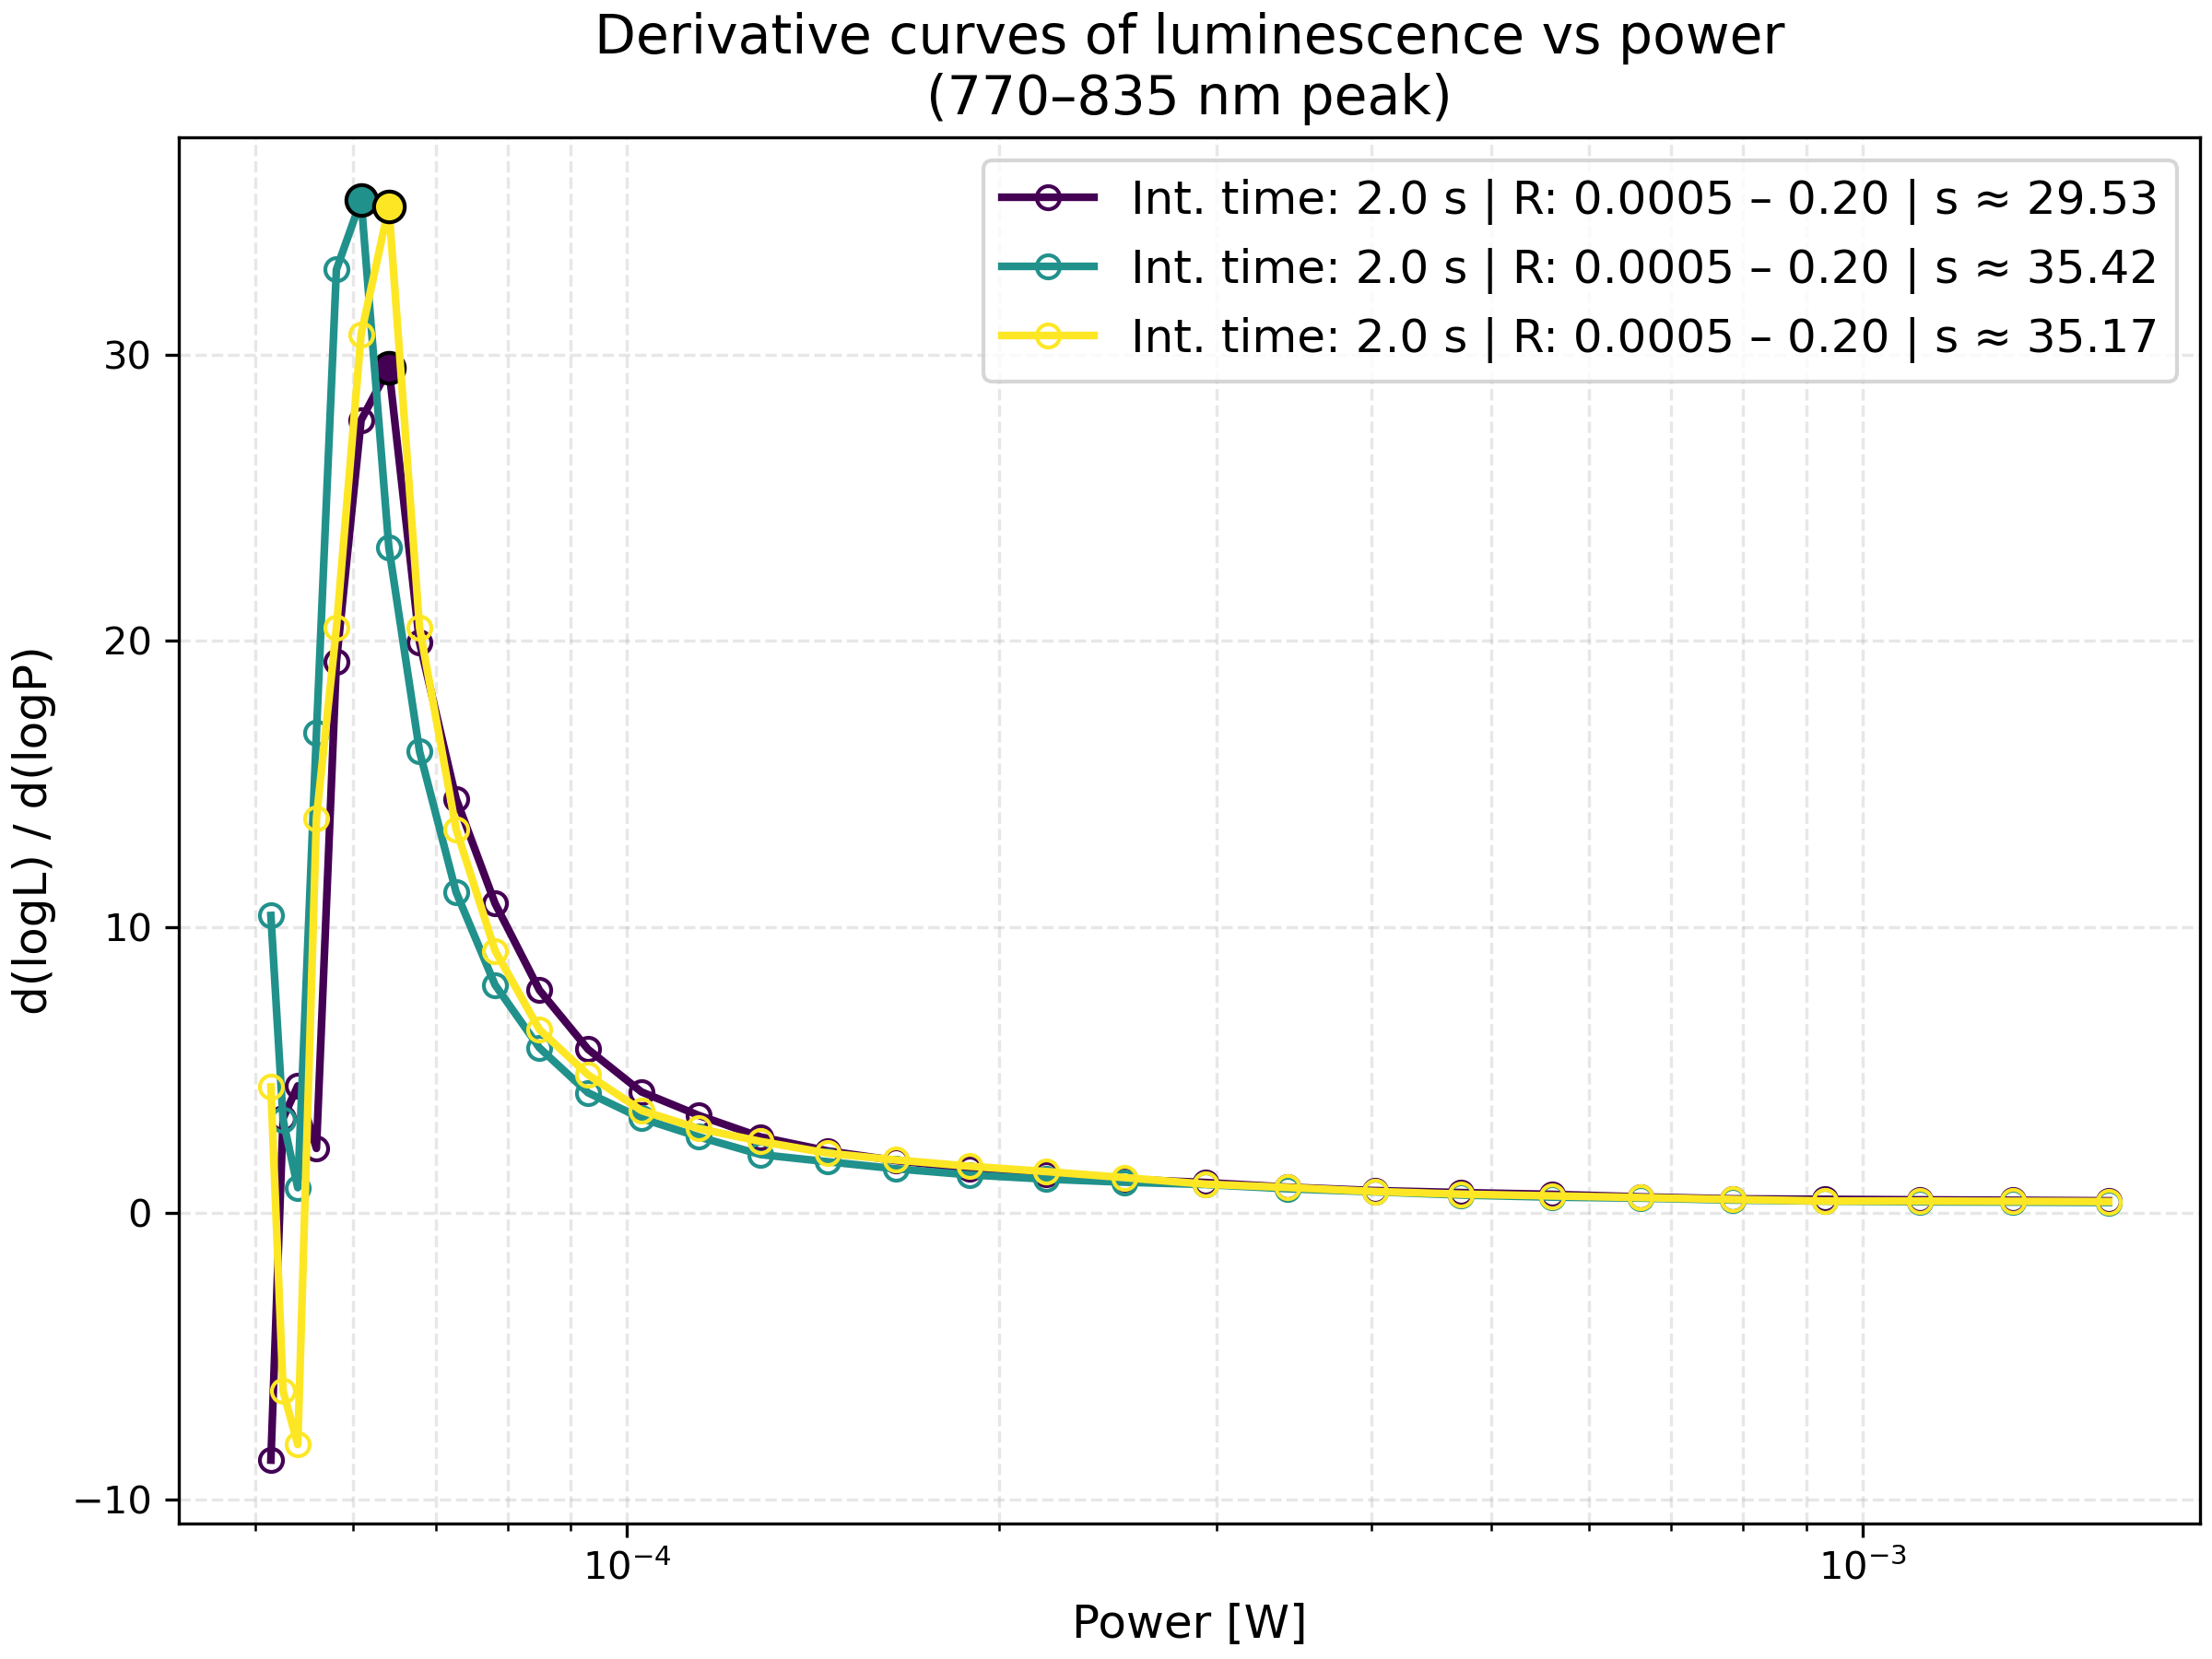
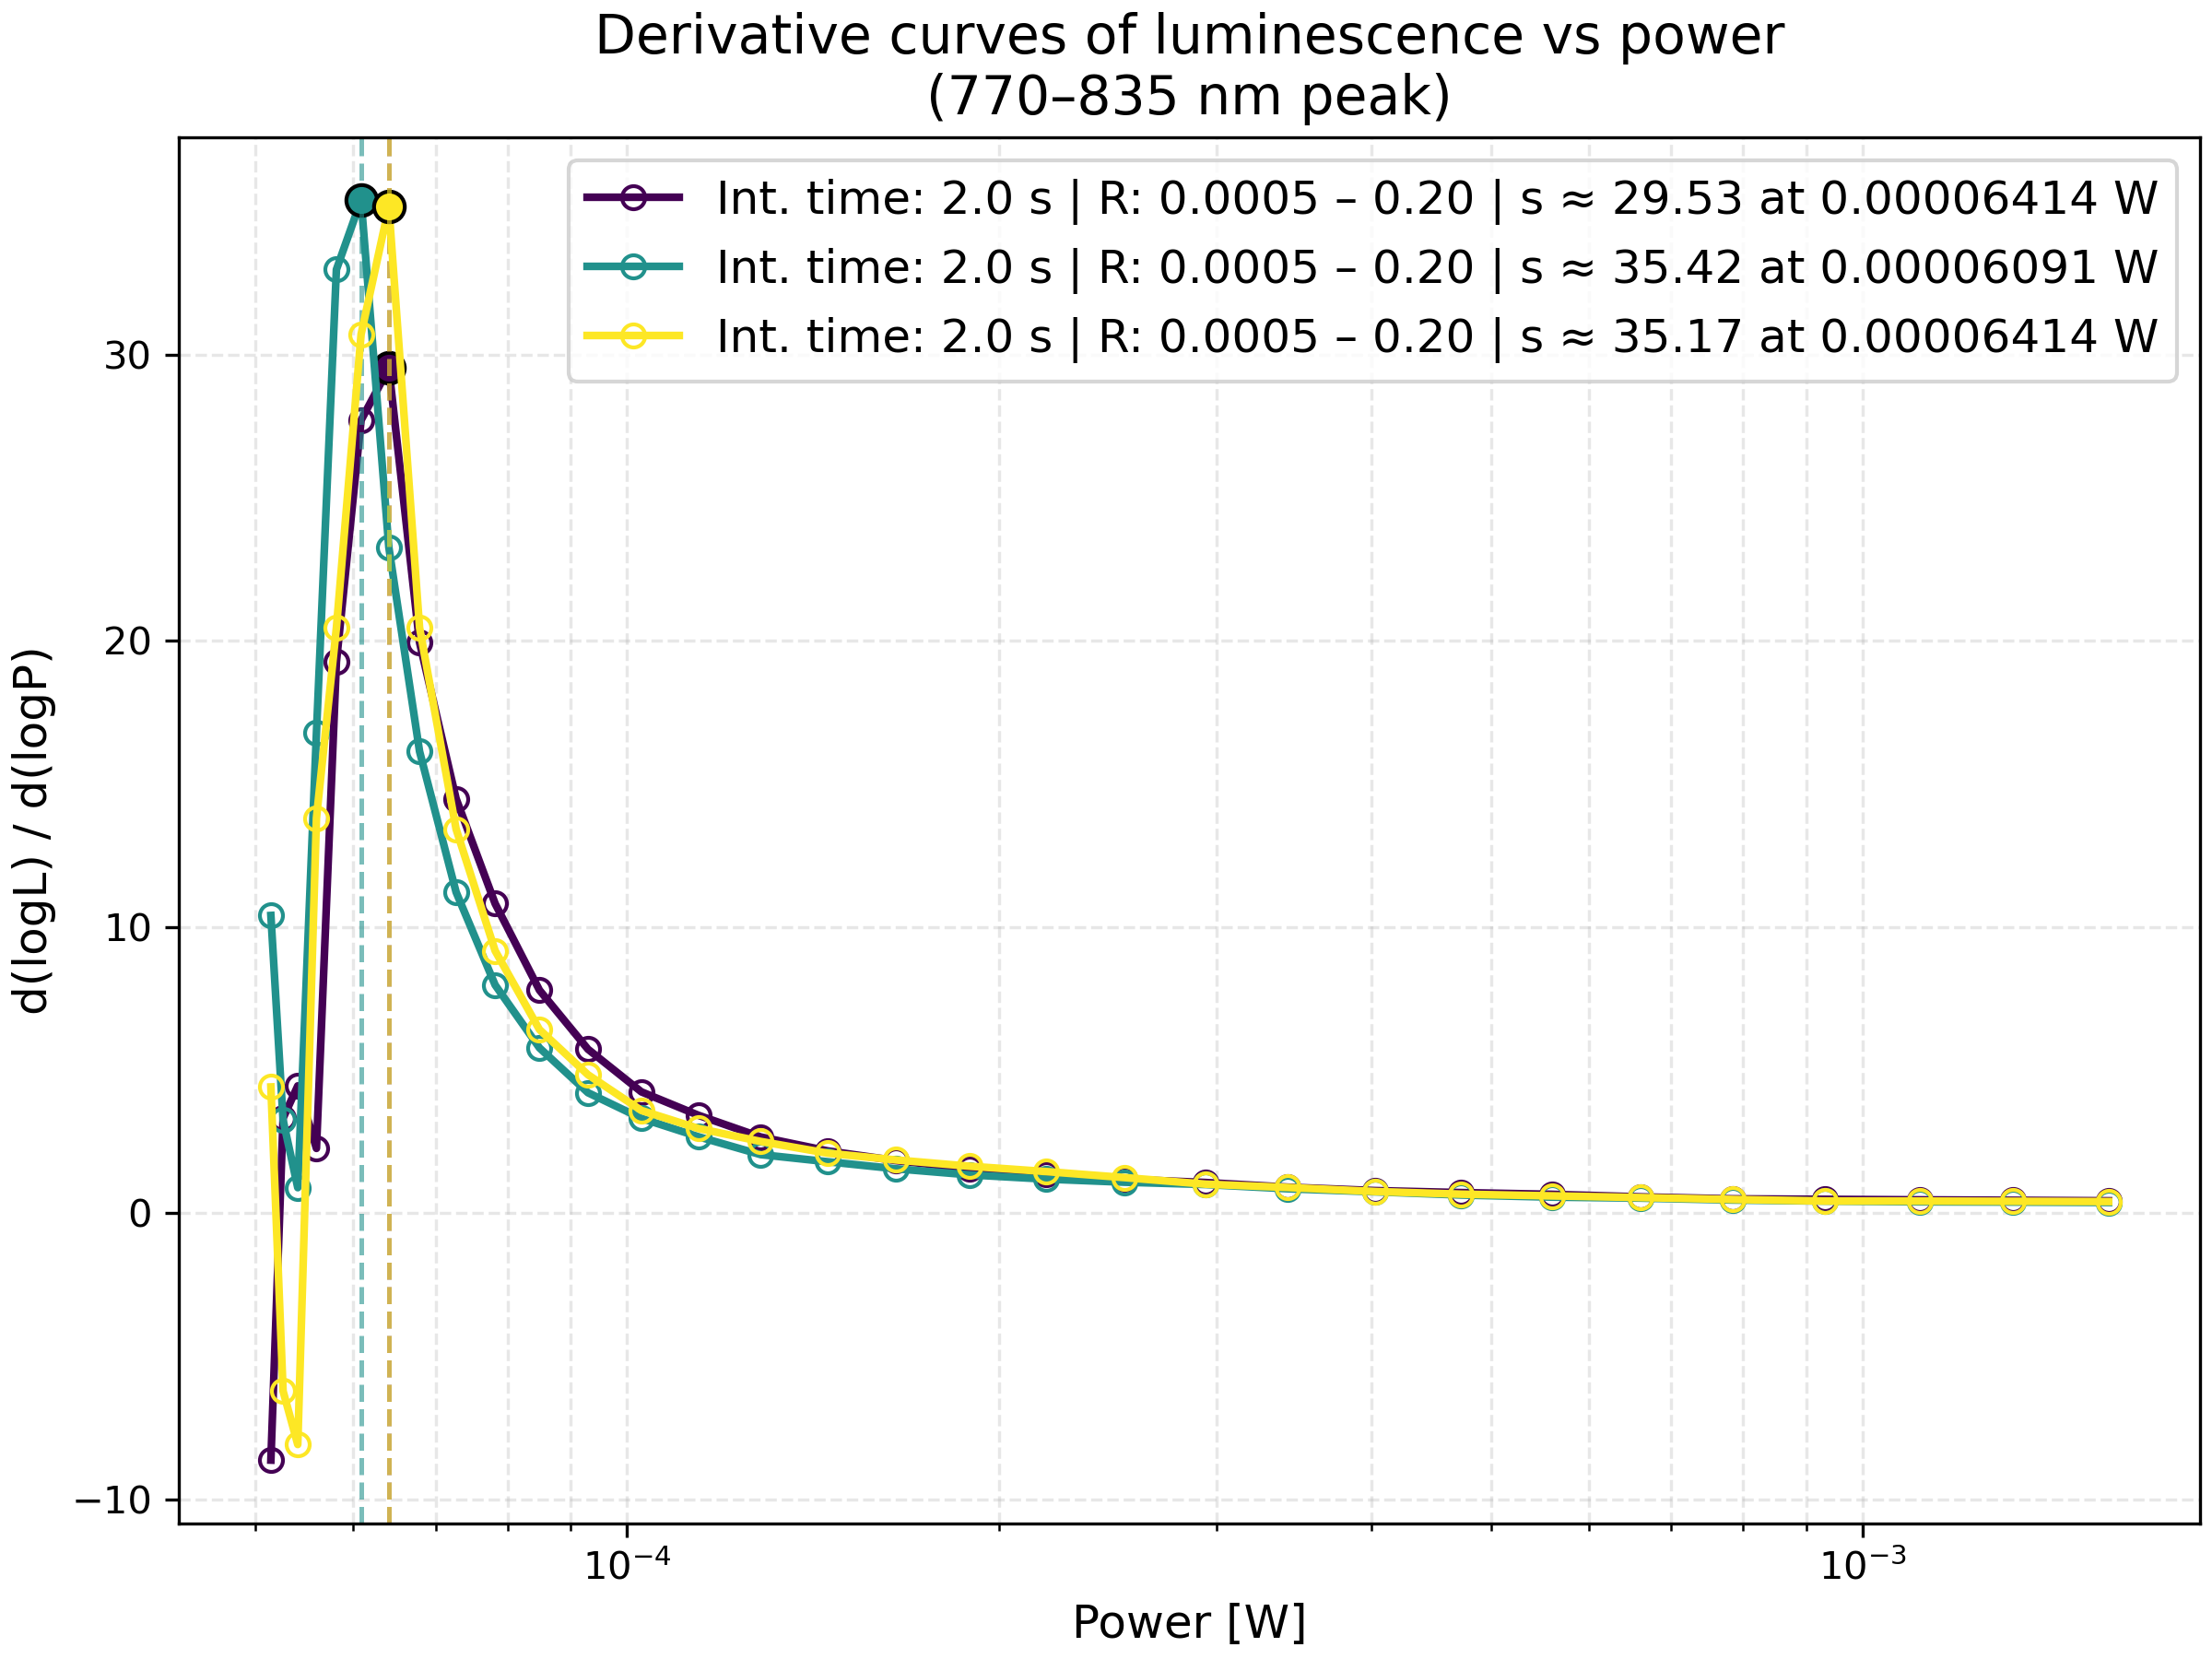
Data analysis

Changed region(s): [[0.25, 0.0933, 0.9688, 0.2178]]

diff --git a/ANP/DataAnalysis/DataAnalysis.py b/ANP/DataAnalysis/DataAnalysis.py
@@ -101,7 +101,7 @@ def read_all_spectra(folder_path):
         if not background_region.empty:
 
             background_value = background_region["Intensity_counts"].mean()
-            print(f"\nBackground counts (P0 average in 870–900 nm) in dataset '{file_path.parent.name}': {background_value:.2f} counts")
+            #print(f"\nBackground counts (P0 average in 870–900 nm) in dataset '{file_path.parent.name}': {background_value:.2f} counts")
 
             for label, df in spectra.items():
 
@@ -451,6 +451,50 @@ def plot_luminescence_vs_power(results_df, wl_min, wl_max, integration_time, rat
 
     #plt.show()
 
+def plot_all_power_curves(datasets, int_start, int_end):
+
+    fig, ax = plt.subplots(figsize=(8, 6), constrained_layout=True)
+    colors = plt.cm.viridis(np.linspace(0, 1, len(datasets)))
+
+    for i, data in enumerate(datasets):
+
+        folder = data["folder"]
+        int_time = data["integration_time"]
+        ratio_start = data["ratio_start"]
+        ratio_stop = data["ratio_stop"]
+
+        power_info_file = Path(folder) / "SetInfoPowerCurve.txt"
+        power_info = pd.read_csv(power_info_file, sep="\t")
+        power_map = dict(zip(power_info["Pindex"], power_info["CurrentPower"]))
+
+        all_spectra = read_all_spectra(folder)
+        results_df = integrate_peak(all_spectra, int_start, int_end, integration_time=int_time)
+
+        label = f"Int. time: {int_time:>4.1f} s    R: {ratio_start:<7.4f} – {ratio_stop:<4.2f}"
+
+        ax.plot(
+          results_df["Power_W"],
+                results_df["Luminescence_counts"],
+                marker="o",
+                markersize=6,
+                markerfacecolor="none",
+                linestyle="-",
+                linewidth=2,
+                label=label,
+                color=colors[i]
+               )
+
+    ax.set_xscale("log")
+    ax.set_yscale("log")
+    ax.set_title(f"log-log scale: luminescence vs power\n({int_start}–{int_end} nm peak)", fontsize=14)
+    ax.set_xlabel("Power [W]")
+    ax.set_ylabel("Luminescence [counts]")
+    ax.grid(True, which='both', linestyle='--', alpha=0.3)
+    ax.legend(fontsize=11, loc="lower right")
+
+    plt.savefig("All_PowerCurves.png", dpi=300)
+
+    plt.show()
 
 #plot_luminescence_vs_power(results_df,
 #                           wl_min=755,
@@ -487,8 +531,9 @@ def calculate_derivative(results_df):
     results_df["s parameter"] = False
     results_df.loc[s_parameter_index, "s parameter"] = True
     s_value = results_df.loc[s_parameter_index, "Derivative"]
+    s_power = results_df.loc[s_parameter_index, "Power_W"]
 
-    return results_df, s_value
+    return results_df, s_value, s_power
 
 def plot_derivative(results_df):
 
@@ -556,9 +601,13 @@ def plot_all_derivatives(datasets, int_start, int_end):
 
         all_spectra = read_all_spectra(folder)
         results_df = integrate_peak(all_spectra, int_start, int_end, integration_time=int_time)
-        derivative_df, s = calculate_derivative(results_df)
+        derivative_df, s_value, s_power = calculate_derivative(results_df)
 
-        label = f"Int. time: {int_time:.1f} s | R: {ratio_start:.4f} – {ratio_stop:.2f} | s ≈ {s:.2f}"
+        label = (
+                 f"Int. time: {int_time:.1f} s | "
+                 f"R: {ratio_start:.4f} – {ratio_stop:.2f} | "
+                 f"s ≈ {s_value:.2f} at {s_power:.8f} W"
+                )
 
         # Plot full curve
         ax.plot(
@@ -584,6 +633,14 @@ def plot_all_derivatives(datasets, int_start, int_end):
                 markeredgecolor="black"
                )
 
+        ax.axvline(
+                   x=s_power,
+                   linestyle="--",
+                   linewidth=1.2,
+                   color=colors[i],
+                   alpha=0.6
+                  )
+
     ax.set_xscale("log")
     ax.set_xlabel("Power [W]", fontsize=12)
     ax.set_ylabel("d(logL) / d(logP)", fontsize=12)
@@ -592,4 +649,66 @@ def plot_all_derivatives(datasets, int_start, int_end):
     ax.legend(fontsize=12, loc="best")
 
     plt.savefig("All_Derivative_Curves.png", dpi=300)
+    plt.show()
+
+def plot_all_power_curves_with_s(datasets, int_start, int_end):
+
+    fig, ax = plt.subplots(figsize=(8, 6), constrained_layout=True)
+    colors = plt.cm.viridis(np.linspace(0, 1, len(datasets)))
+
+    for i, data in enumerate(datasets):
+
+        folder = data["folder"]
+        int_time = data["integration_time"]
+        ratio_start = data["ratio_start"]
+        ratio_stop = data["ratio_stop"]
+
+        power_info_file = Path(folder) / "SetInfoPowerCurve.txt"
+        power_info = pd.read_csv(power_info_file, sep="\t")
+        power_map = dict(zip(power_info["Pindex"], power_info["CurrentPower"]))
+
+        all_spectra = read_all_spectra(folder)
+        results_df = integrate_peak(all_spectra, int_start, int_end, integration_time=int_time)
+
+        # Compute s value and power
+        derivative_df, s_value, s_power = calculate_derivative(results_df)
+
+        label = (
+                 f"Int. time: {int_time:.1f} s | "
+                 f"R: {ratio_start:.4f} – {ratio_stop:.2f} | "
+                 f"s ≈ {s_value:.2f} at {s_power:.8f} W"
+                )
+
+        # Plot curve
+        ax.plot(
+          results_df["Power_W"],
+                results_df["Luminescence_counts"],
+                marker="o",
+                markersize=6,
+                markerfacecolor="none",
+                linestyle="-",
+                linewidth=2,
+                color=colors[i],
+                label=label
+               )
+
+        # Vertical line at s_power
+        ax.axvline(
+                   x=s_power,
+                   linestyle="--",
+                   linewidth=1.2,
+                   color=colors[i],
+                   alpha=0.5
+                  )
+
+    ax.set_xscale("log")
+    ax.set_yscale("log")
+    ax.set_title(f"log-log scale: luminescence vs power\n({int_start}–{int_end} nm peak)", fontsize=14)
+    ax.set_xlabel("Power [W]", fontsize=12)
+    ax.set_ylabel("Luminescence [counts]", fontsize=12)
+    ax.grid(True, which="both", linestyle="--", alpha=0.3)
+    ax.legend(fontsize=11, loc="lower right")
+
+    #plt.savefig("All_PowerCurves_with_s.png", dpi=300)
+
     plt.show()

diff --git a/ANP/DataAnalysis/MainDataTreatmentNew.py b/ANP/DataAnalysis/MainDataTreatmentNew.py
@@ -44,66 +44,25 @@ int_start = 770
 int_end = 835
 
 plot_spectra_with_zoom(
-    all_spectra,
-    integration_time=selected_data["integration_time"],
-    ratio_start=selected_data["ratio_start"],
-    ratio_stop=selected_data["ratio_stop"],
-    zoom_wl_min=630,
-    zoom_wl_max=760,
-    integration_range=(int_start, int_end)
-)
+                       all_spectra,
+                       integration_time=selected_data["integration_time"],
+                       ratio_start=selected_data["ratio_start"],
+                       ratio_stop=selected_data["ratio_stop"],
+                       zoom_wl_min=630,
+                       zoom_wl_max=760,
+                       integration_range=(int_start, int_end)
+                      )
 
 # 630 - 760 nm range is good to zoom on the smaller peaks
 
-plt.show()
-
-n = len(datasets)
-
-# Plot all power curves in one figure
-fig_all, ax_all = plt.subplots(figsize=(8, 6))
-
-colors = plt.cm.viridis(np.linspace(0, 1, len(datasets)))
-
-for i, data in enumerate(datasets):
-
-    folder = data["folder"]
-    power_info_file = Path(folder) / "SetInfoPowerCurve.txt"
-    power_info = pd.read_csv(power_info_file, sep="\t")
-    power_map = dict(zip(power_info["Pindex"], power_info["CurrentPower"]))
-
-    all_spectra = read_all_spectra(folder)
-    results_df = integrate_peak(all_spectra, int_start, int_end,  integration_time=data["integration_time"])
-
-    label = f"Int. time: {data['integration_time']:>4.1f} s    R: {data['ratio_start']:<7.4f} – {data['ratio_stop']:<4.2f}"
-
-    ax_all.plot(
-        results_df["Power_W"],
-        results_df["Luminescence_counts"],
-        marker="o",
-        markersize=6,
-        markerfacecolor="none",
-        linestyle="-",
-        linewidth=2,
-        label=label,
-        color=colors[i]
-    )
-
-ax_all.set_xscale("log")
-ax_all.set_yscale("log")
-ax_all.set_title(f"log-log scale: luminescence vs power\n({int_start}–{int_end} nm peak)", fontsize=14)
-ax_all.set_xlabel("Power [W]")
-ax_all.set_ylabel("Luminescence [counts]")
-ax_all.grid(True, which='both', linestyle='--', alpha=0.3)
-ax_all.legend(fontsize=12, loc="lower right")
-
-plt.tight_layout()
-plt.savefig("All_PowerCurves.png", dpi=300)
-plt.show()
+plot_all_power_curves(datasets, int_start, int_end)
 
 # The derivative method is just a simple slope calculation between two points
-derivative_results, s = calculate_derivative(results_df)
-print(f"\nMaximum slope s ≈ {s:.2f}")
+#derivative_df, s_value, s_power = calculate_derivative(results_df)
+#print(f"s ≈ {s_value:.2f} at power {s_power:.8f} W")
 
 #plot_derivative(derivative_results)
 
 plot_all_derivatives(datasets, int_start, int_end)
+
+plot_all_power_curves_with_s(datasets, int_start, int_end)